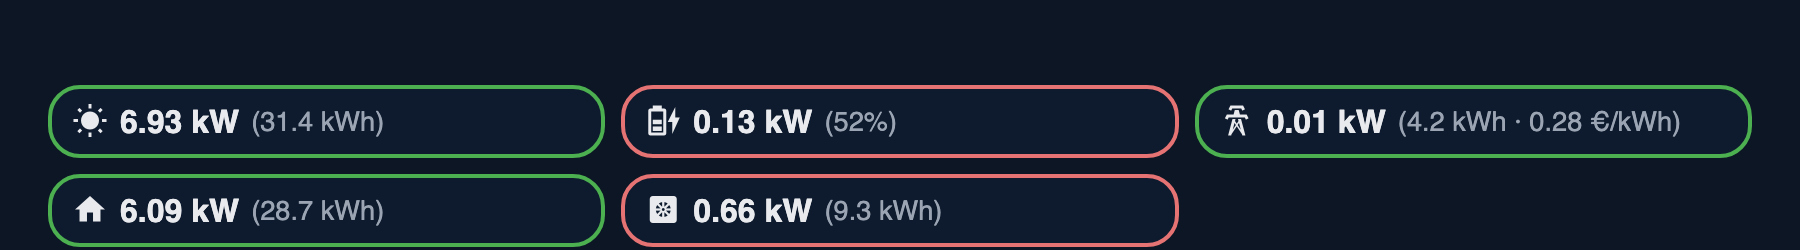
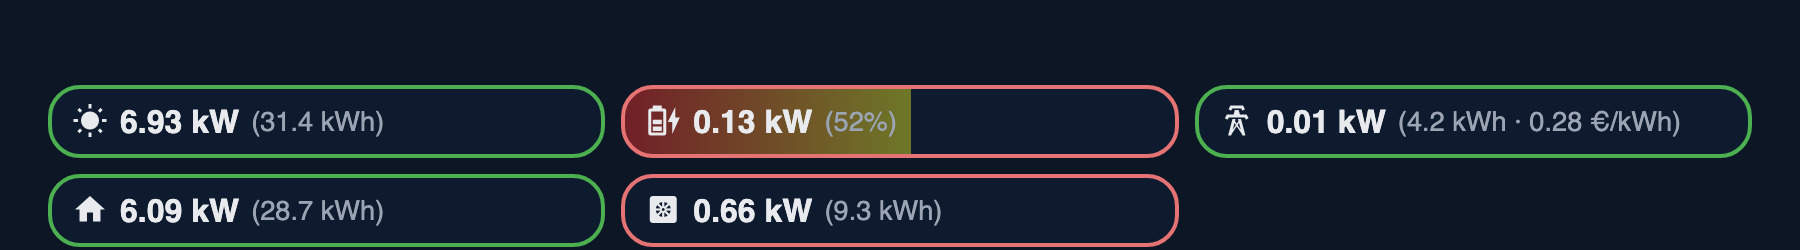
Optional battery SoC fill with red-green gradient

Changed region(s): [[0.3422, 0.336, 0.5289, 0.616]]

diff --git a/slim-energy-card.js b/slim-energy-card.js
@@ -93,8 +93,17 @@ class SlimEnergyCard extends HTMLElement {
     }
     const extra = parts.length ? `(${parts.join(" · ")})` : "";
     const icon = c.icon || T.icon;
+    let style = "";
+    if (c.soc_fill && c.soc_entity) {
+      // pill filled left to right up to the SoC, gradient red -> hue of the current level (0 red, 120 green)
+      const [soc] = this._num(c.soc_entity);
+      if (!isNaN(soc)) {
+        const p = Math.max(0, Math.min(100, soc));
+        style = ` style="background:linear-gradient(90deg,hsla(0,70%,45%,.55),hsla(${p * 1.2},70%,45%,.55)) no-repeat left/${p}% 100%,var(--card-background-color)"`;
+      }
+    }
     const ic = `<span class="ic">${iconHtml(icon)}</span>`;
-    return `<div class="f ${color}" data-e="${c.entity}" title="${(c.name || "").replace(/"/g, "&quot;")}">${ic}<span class="v">${val}</span><span class="x">${extra}</span></div>`;
+    return `<div class="f ${color}" data-e="${c.entity}"${style} title="${(c.name || "").replace(/"/g, "&quot;")}">${ic}<span class="v">${val}</span><span class="x">${extra}</span></div>`;
   }
 
   _render() {
@@ -116,7 +125,7 @@ const sel = (options) => ({ select: { options, mode: "dropdown" } });
 const TYPE_OPTIONS = Object.entries(TYPES).map(([value, t]) => ({ value, label: t.label }));
 const LABELS = {
   enabled: "Show", type: "Type", name: "Name", entity: "Power entity", icon: "Icon",
-  soc_entity: "Battery SoC entity", daily_entity: "Daily energy entity",
+  soc_entity: "Battery SoC entity", soc_fill: "Fill pill by state of charge", daily_entity: "Daily energy entity",
   positive_color: "Border colour when value > 0", invert: "Invert sign", price_entity: "Price entity",
 };
 const bool = { boolean: {} };
@@ -127,13 +136,13 @@ const schemaFor = (type) => [
   { name: "name", selector: { text: {} } },
   { name: "entity", selector: ent() },
   { name: "icon", selector: { icon: { placeholder: TYPES[type].icon } } }, // standard icon shown as placeholder
-  ...(type === "battery" ? [{ name: "soc_entity", selector: ent({ device_class: "battery" }) }] : []),
+  ...(type === "battery" ? [{ name: "soc_entity", selector: ent({ device_class: "battery" }) }, { name: "soc_fill", selector: bool }] : []),
   ...(type === "grid" ? [{ name: "price_entity", selector: ent() }] : []),
   { name: "daily_entity", selector: ent({ device_class: "energy" }) },
   { name: "positive_color", selector: sel([{ value: "green", label: "Green" }, { value: "red", label: "Red" }]) },
   { name: "invert", selector: bool },
 ];
-const MANAGED = ["enabled", "type", "name", "entity", "icon", "soc_entity", "price_entity", "daily_entity", "positive_color", "invert"];
+const MANAGED = ["enabled", "type", "name", "entity", "icon", "soc_entity", "soc_fill", "price_entity", "daily_entity", "positive_color", "invert"];
 
 class SlimEnergyCardEditor extends HTMLElement {
   _nk = 0;
@@ -243,6 +252,7 @@ class SlimEnergyCardEditor extends HTMLElement {
         const dflt = v.type !== type && v.positive_color === TYPES[type].color ? TYPES[v.type].color : v.positive_color;
         if (dflt && dflt !== TYPES[v.type].color) n.positive_color = dflt;
         if (v.invert) n.invert = true;
+        if (v.type === "battery" && v.soc_fill) n.soc_fill = true;
         if (!v.enabled) n.enabled = false;
         entities[i] = { ...kept, ...n };
         this._emit(entities);

diff --git a/preview.html b/preview.html
@@ -73,7 +73,7 @@
   const config = {
     entities: [
       { entity: "sensor.solar", type: "solar", daily_entity: "sensor.solar_day" },
-      { entity: "sensor.bat", type: "battery", soc_entity: "sensor.soc" },
+      { entity: "sensor.bat", type: "battery", soc_entity: "sensor.soc", soc_fill: true },
       { entity: "sensor.grid", type: "grid", price_entity: "sensor.price", daily_entity: "sensor.grid_day" },
       { entity: "sensor.house", type: "home", name: "House", daily_entity: "sensor.house_day" },
       { entity: "sensor.heat", type: "heatpump", daily_entity: "sensor.heat_day" },

diff --git a/AGENTS.md b/AGENTS.md
@@ -14,6 +14,7 @@ HACS Lovelace card (`custom:slim-energy-card`). Goal: very simple, slim energy o
 - Border colour from sign: value > 0 uses `positive_color` (`green` default, or `red`), value < 0 the opposite. `invert: true` flips the sign first. `abs(kW) <= threshold` (default 0.005) = neutral border.
 - Bracket text, parts joined with ` · `, in order: battery SoC (`soc_entity`, `52%`), daily energy (`daily_entity`, kWh, Wh converted, 1 decimal), grid price (only `type: grid`, from its `price_entity`, 2 decimals + its unit).
   - Solar: `daily_entity` = daily production. Grid: `daily_entity` = daily use, e.g. `(4.2 kWh · 0.28 €/kWh)`.
+- Battery `soc_fill: true` (needs `soc_entity`): pill background filled left to right to SoC%, gradient red to hsl(SoC*1.2) (red low, green high). Off by default.
 - Icon per entity: any `mdi:...` (via `ha-icon`) or emoji. Defaults per type are standard MDI icons (`TYPES`): sun `mdi:white-balance-sunny`, battery `mdi:battery-charging-medium`, grid `mdi:transmission-tower`, home `mdi:home`, heat pump `mdi:heat-pump`, EV `mdi:car-electric`, other `mdi:flash`. Chosen to match what the owner had configured by hand; no coloured/embedded icons (rejected). Editor icon picker shows the type default as placeholder.
 - Tap on a field fires `hass-more-info` for its entity.
 - Border colours overridable via CSS vars `--slim-green`, `--slim-red`.
@@ -22,7 +23,7 @@ HACS Lovelace card (`custom:slim-energy-card`). Goal: very simple, slim energy o
 
 ## Config
 Card: `entities` (required). Legacy card-level `price_entity` still read as fallback.
-Entity: `type` (solar|battery|grid|home|heatpump|ev|other), `name` (tooltip/editor label), `enabled` (false = hidden), `entity`, `icon`, `soc_entity` (battery), `price_entity` (grid), `daily_entity`, `positive_color`, `invert`, `decimals` (2), `threshold` (0.005).
+Entity: `type` (solar|battery|grid|home|heatpump|ev|other), `name` (tooltip/editor label), `enabled` (false = hidden), `entity`, `icon`, `soc_entity` (battery), `soc_fill` (battery), `price_entity` (grid), `daily_entity`, `positive_color`, `invert`, `decimals` (2), `threshold` (0.005).
 
 ## Not included (add only on request)
 Status words ("Producing", "Using"), visual editor, translations, per-field click actions, auto sizing to content.

diff --git a/README.md b/README.md
@@ -36,6 +36,7 @@ entities:
   - type: battery
     entity: sensor.battery_power
     soc_entity: sensor.battery_soc     # shows (52%)
+    soc_fill: true                     # optional: pill filled red->green by SoC
   - type: grid
     entity: sensor.grid_power
     price_entity: sensor.grid_price    # grid only; bracket: (4.2 kWh · 0.28 €/kWh)
@@ -54,6 +55,7 @@ entities:
 | `name` | type name | Tooltip and editor label |
 | `icon` | per type | Any `mdi:...` icon or an emoji. Defaults: solar `mdi:white-balance-sunny`, battery `mdi:battery-charging-medium`, grid `mdi:transmission-tower`, home `mdi:home`, heat pump `mdi:heat-pump`, EV `mdi:car-electric`, other `mdi:flash` |
 | `soc_entity` | | Battery only: state of charge, shown as `(52%)` |
+| `soc_fill` | `false` | Battery only: fill the pill from the left up to the state of charge, with a red to green gradient |
 | `price_entity` | | Grid only: price, shown in brackets |
 | `daily_entity` | | Daily energy sensor in kWh or Wh, shown in brackets |
 | `positive_color` | per type | Border colour when the value is above 0: `green` or `red`. Solar, home, other: green. Battery, grid, heat pump, EV: red. The opposite colour is used below 0. |
